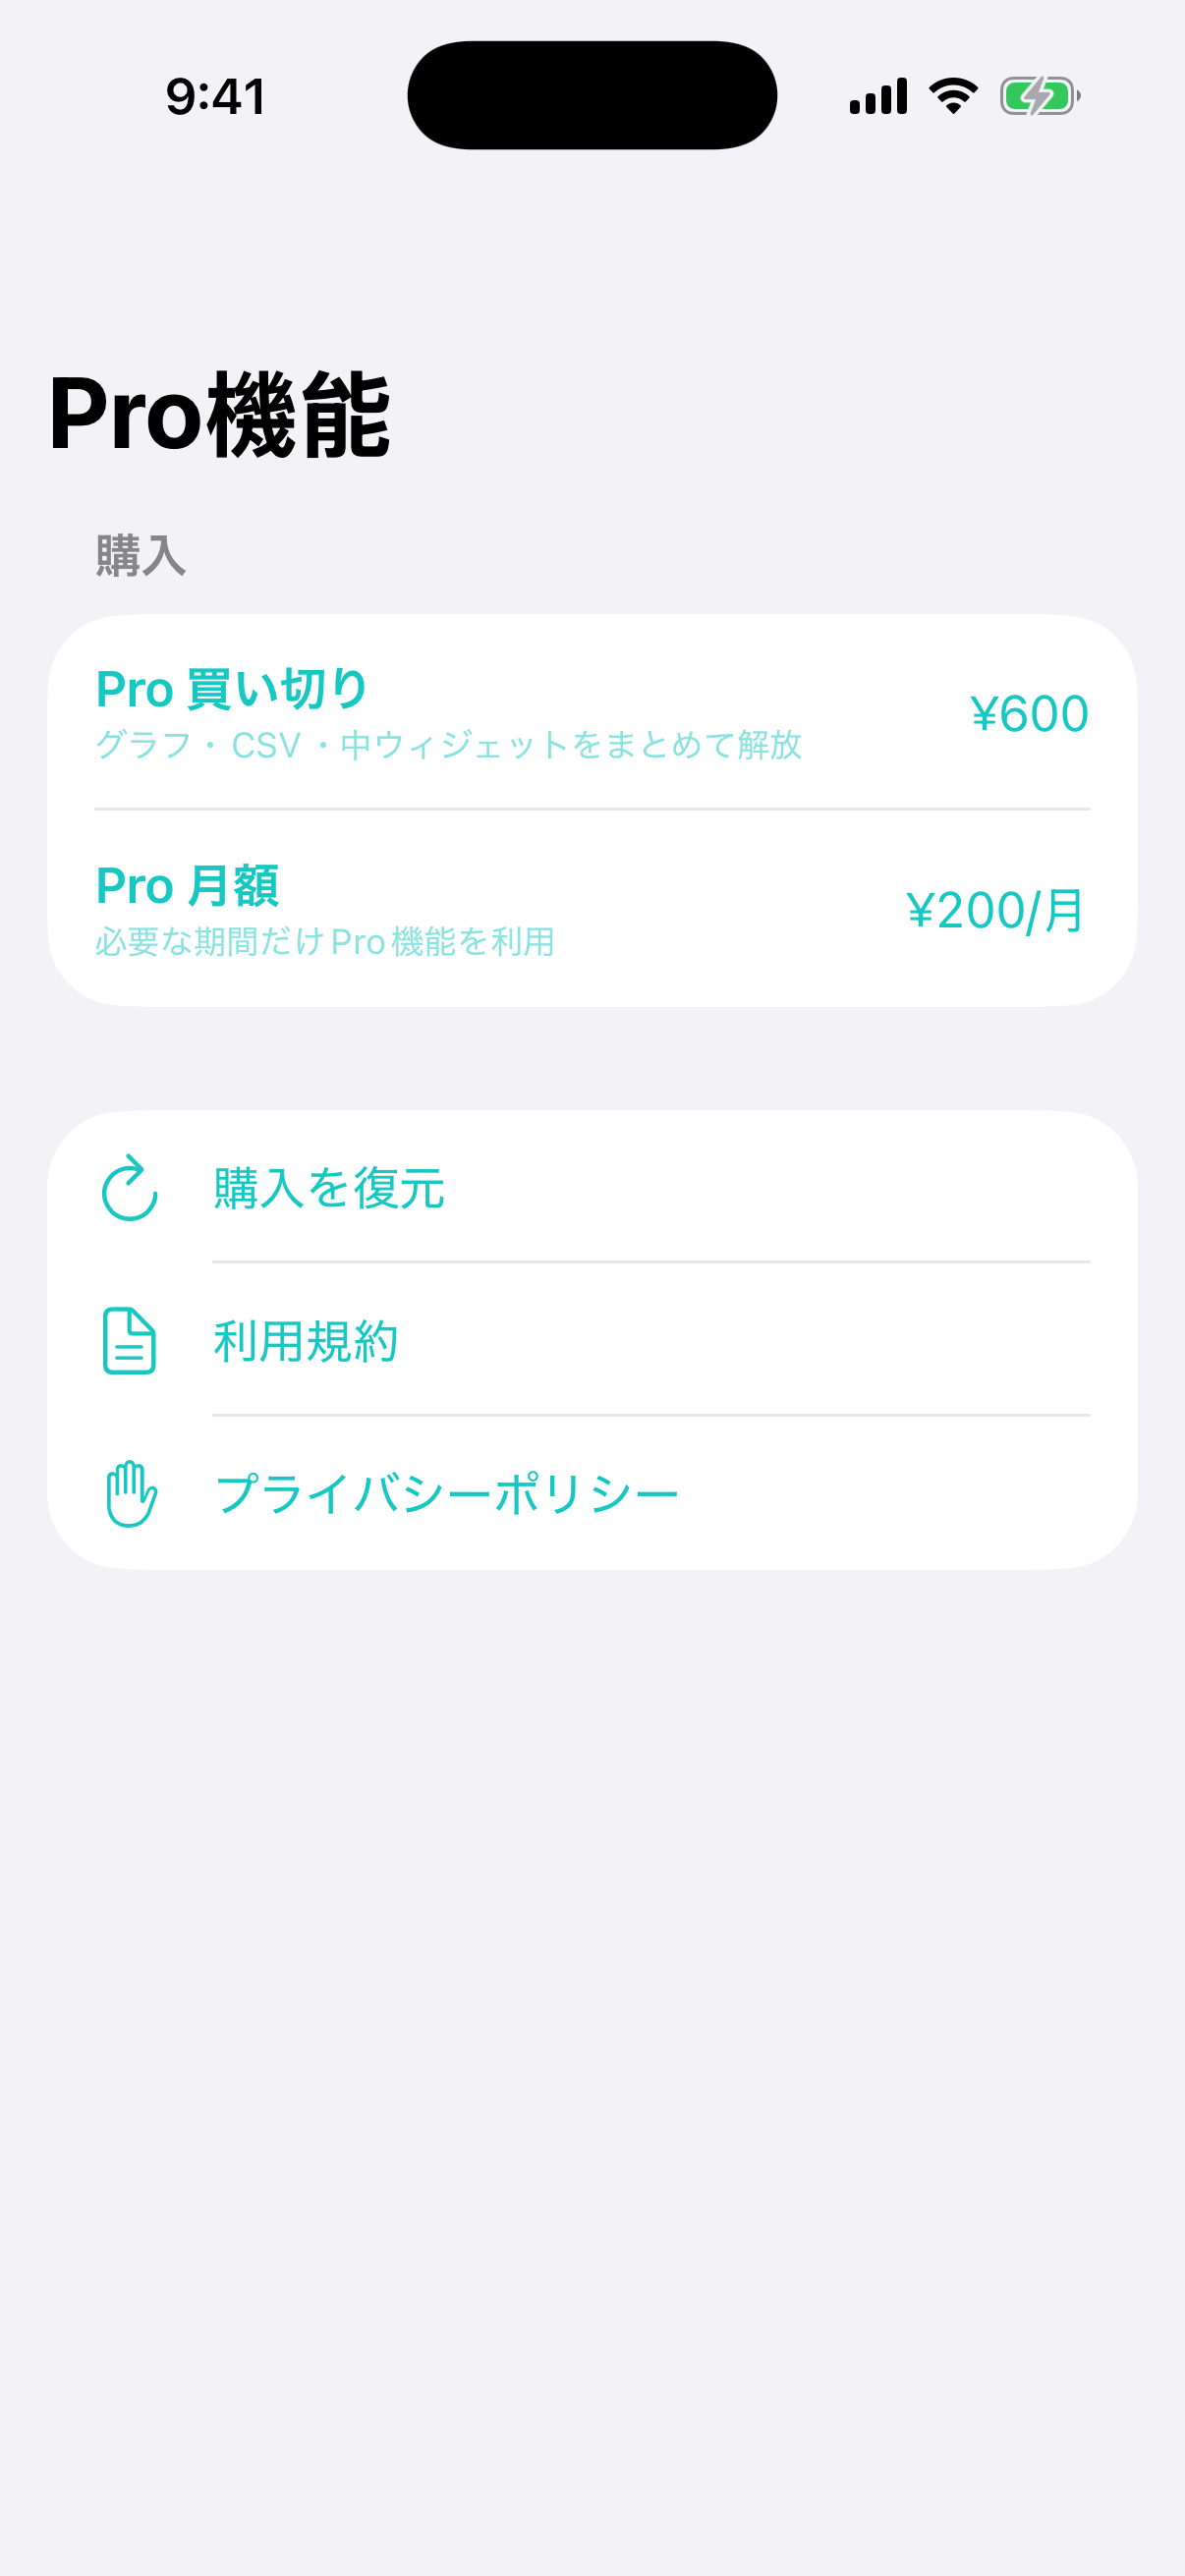
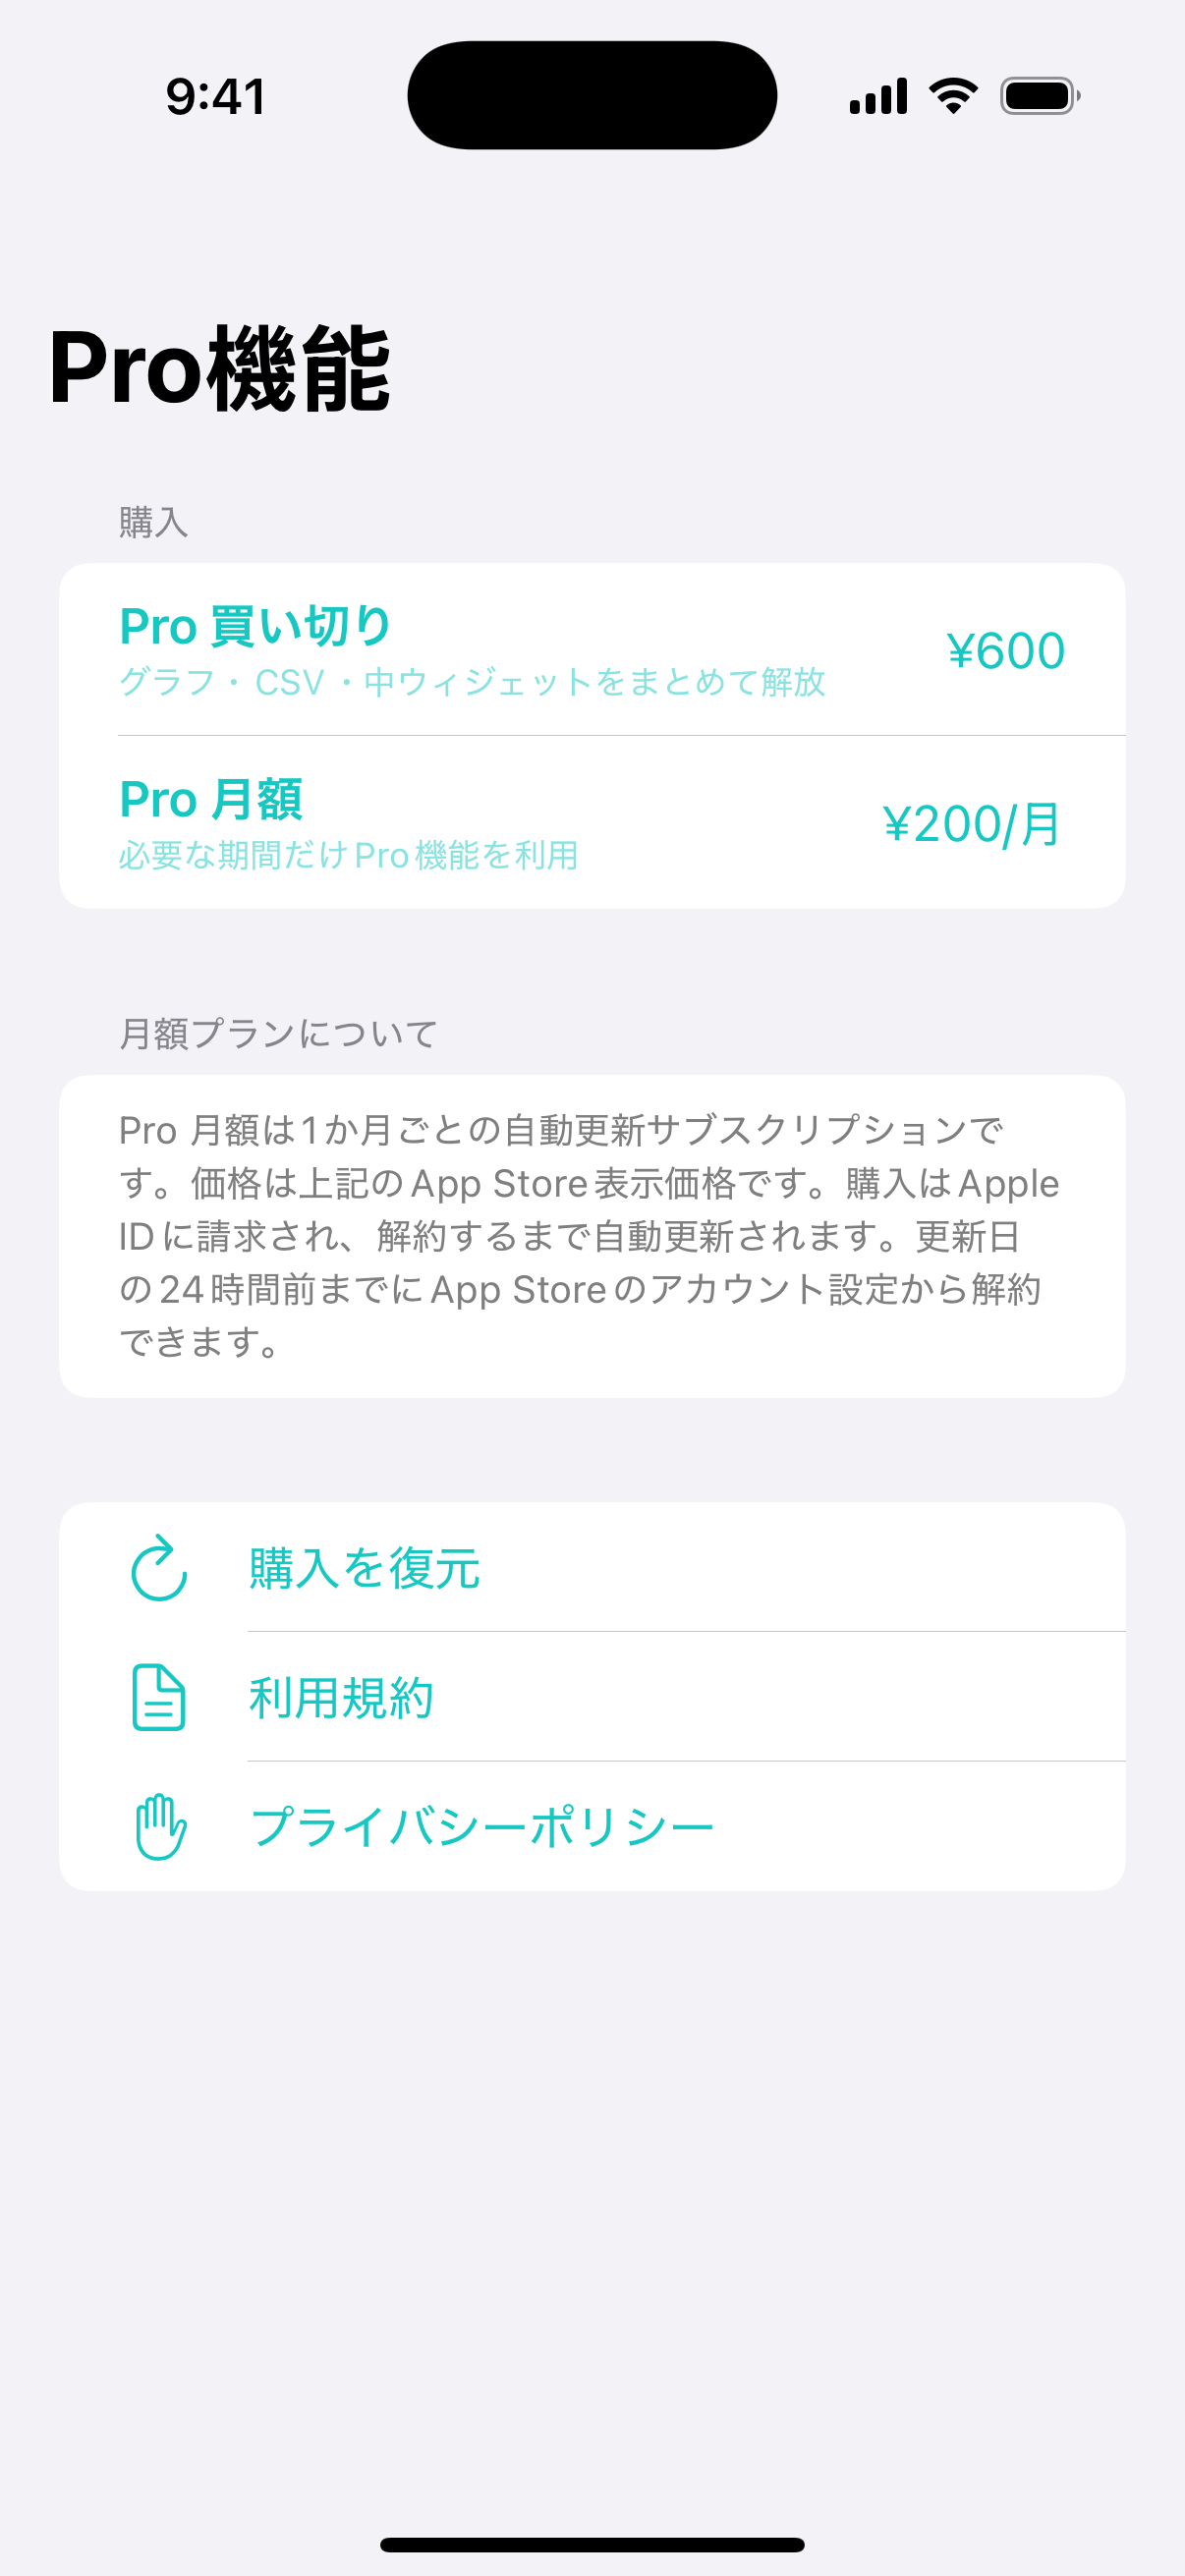
ペイウォール提出画像を更新

diff --git a/NomidaiTracker/Views/Paywall/PaywallView.swift b/NomidaiTracker/Views/Paywall/PaywallView.swift
@@ -36,8 +36,6 @@ struct PaywallView: View {
                         Image(systemName: "checkmark.seal.fill")
                     }
                     .foregroundStyle(.green)
-                } else if storeKitService.isLoading {
-                    ProgressView()
                 } else if usesScreenshotProducts {
                     screenshotProductButton(
                         nameKey: "paywall.screenshot.lifetime.name",
@@ -49,6 +47,8 @@ struct PaywallView: View {
                         descriptionKey: "paywall.screenshot.monthly.description",
                         price: "¥200/月"
                     )
+                } else if storeKitService.isLoading {
+                    ProgressView()
                 } else if storeKitService.products.isEmpty {
                     Text("paywall.message.productsUnavailable")
                         .foregroundStyle(.secondary)